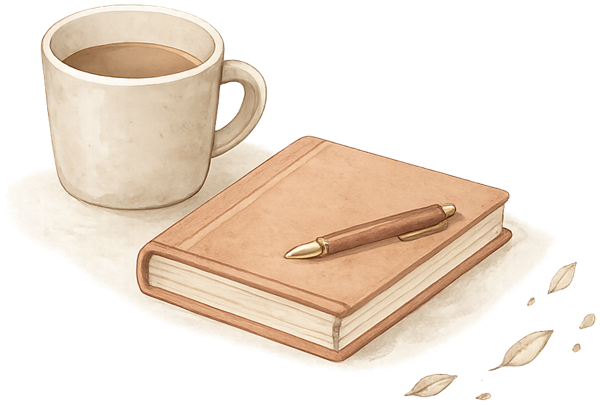
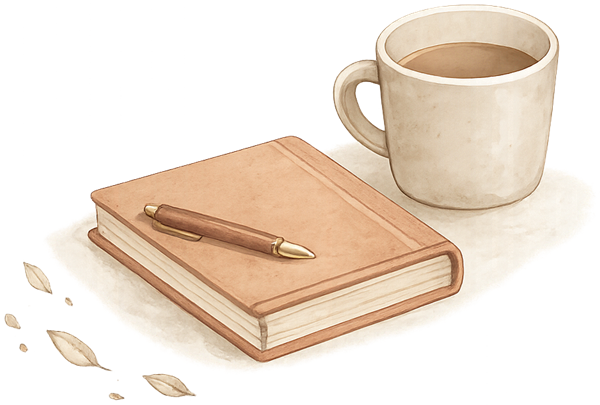
feat: replace top screen header with title image
- app/index.tsx: 葉画像＋タイトル文字列を title.png に差し替え、
  サブコピーとあわせて左右中央配置に変更
- assets/images/title.png: 不透明領域でトリミングし長辺600pxに統一
  （2075KB → 47KB）
- assets/images/deco-bottom-right.png: 反転版に差し替え（比率は同じため
  表示サイズの調整は不要）
- 設計書 6.2 / 8.4 / 12章 #19 に反映

leaf-title.png は未使用になったが、アセットとしては残している。

diff --git a/app/index.tsx b/app/index.tsx
@@ -42,16 +42,13 @@ export default function TopScreen() {
     <SafeAreaView style={styles.container} edges={['top', 'left', 'right']}>
       <View style={styles.header}>
         <Image
-          source={require('../assets/images/leaf-title.png')}
-          style={styles.headerLeaf}
+          source={require('../assets/images/title.png')}
+          style={styles.titleImage}
           resizeMode="contain"
         />
-        <View style={styles.headerTexts}>
-          <Text style={typography.appTitle}>独り言要約</Text>
-          <Text style={[typography.caption, styles.subtitle]}>
-            話すだけで、頭の中をスッキリ整理。
-          </Text>
-        </View>
+        <Text style={[typography.caption, styles.subtitle]}>
+          話すだけで、頭の中をスッキリ整理。
+        </Text>
       </View>
 
       <FlatList
@@ -99,16 +96,13 @@ const FOOTER_HEIGHT = 215;
 const styles = StyleSheet.create({
   container: { flex: 1, backgroundColor: colors.bg },
   header: {
-    flexDirection: 'row',
-    alignItems: 'flex-start',
-    gap: 4,
+    alignItems: 'center',
     paddingHorizontal: layout.screenPadding,
-    paddingTop: 16,
-    paddingBottom: 16,
+    paddingTop: 18,
+    paddingBottom: 18,
   },
-  headerLeaf: { width: 22, height: 70, marginTop: -8 },
-  headerTexts: { flex: 1 },
-  subtitle: { marginTop: 6 },
+  titleImage: { width: 300, height: 46 },
+  subtitle: { marginTop: 10 },
   listContent: {
     paddingHorizontal: layout.screenPadding,
     paddingBottom: FOOTER_HEIGHT,

diff --git a/docs/02-design.md b/docs/02-design.md
@@ -230,8 +230,8 @@ export type Recording = {
 
 ```text
 ┌─────────────────────────────┐
-│ 🌿 独り言要約                │ ← 明朝系・大見出し・左に葉の装飾
-│    話すだけで、頭の中をスッキリ整理。│ ← サブコピー（ミュート色）
+│      🌿 独り言要約 🌿         │ ← title.png（画像）・左右中央
+│   話すだけで、頭の中をスッキリ整理。 │ ← サブコピー（ミュート色）・中央
 │                             │
 │ ┌─────────────────────────┐ │
 │ │ 📄  2026/08/01        › │ │ ← カード：白背景・角丸16・薄い影
@@ -460,7 +460,7 @@ Markdownライブラリは導入せず、`SummaryText.tsx` で以下だけを解
 
 | ファイル | 使用画面 | 配置 |
 | --- | --- | --- |
-| `leaf-title.png` | SCR-01 | タイトル左上 |
+| `title.png`（「独り言要約」＋左右の葉飾り） | SCR-01 | 画面上部・左右中央 |
 | `deco-bottom-left.png`（植物） | SCR-01 | 左下 |
 | `deco-bottom-right.png`（コーヒー・本） | SCR-01 | 右下 |
 | `leaf-small.png` | SCR-02 | 見出し上部 |
@@ -471,8 +471,8 @@ Markdownライブラリは導入せず、`SummaryText.tsx` で以下だけを解
 すべて背景透過のPNGとし、不透明領域でトリミングしたうえで長辺600pxに揃える。
 表示サイズは画面コード側で指定するため、画像自体に余白を持たせない。
 
-`please-talke-me.png` は、録音画面のヒント文を**テキストではなく画像として配置する**。
-デザイン画像の手書き風の字形はフォントで再現できないため、画像で持つ（12章 #19）。
+`title.png` と `please-talke-me.png` は、文字を**テキストではなく画像として配置する**。
+デザイン画像の明朝体・手書き風の字形はフォントで再現できないため、画像で持つ（12章 #19）。
 このため当該文言だけは 8.2 のタイポグラフィの対象外となる。
 
 紙のような背景テクスチャは、切り出すと画面サイズに合わず不自然になるため**再現対象から外し、単色 `bg` とする**。
@@ -596,7 +596,7 @@ sequenceDiagram
 | 16 | 詳細画面の「詳細」タイトル | 配置しない | 直下にタイトル・日時・要約が並ぶため冗長 |
 | 17 | react-native-reanimated | 使用しない（依存から除去） | Expo Go (SDK 57) 上でアプリ起動と同時にJSスレッドが SIGSEGV クラッシュするため。`libworklets.so` が原因で、gesture-handler の有無やBabel設定とは無関係に再現した。アニメーションは標準の `Animated` API で代替する（12章 #11 のとおり波形は装飾目的のため実用上の差はない） |
 | 18 | 装飾イラスト | 背景透過PNGを別途用意し、不透明領域でトリミングして長辺600pxに統一 | 当初はデザイン画像から矩形で切り出したが、画面のベゼルが写り込むうえ背景色差で矩形の輪郭が見えたため。透過画像に差し替えたことで #12（背景テクスチャを再現しない）とも整合する |
-| 19 | 録音画面のヒント文 | テキストではなく画像（`please-talke-me.png`）で配置 | デザイン画像の手書き風の字形は標準フォントでは再現できないため。文言が固定で状態によって変化しないため、画像化の弊害が小さい |
+| 19 | アプリタイトルと録音画面のヒント文 | テキストではなく画像（`title.png` / `please-talke-me.png`）で配置し、いずれも左右中央に置く | デザイン画像の明朝体・手書き風の字形は標準フォントでは再現できないため。文言が固定で状態によって変化しないため、画像化の弊害が小さい |
 
 ---
 
